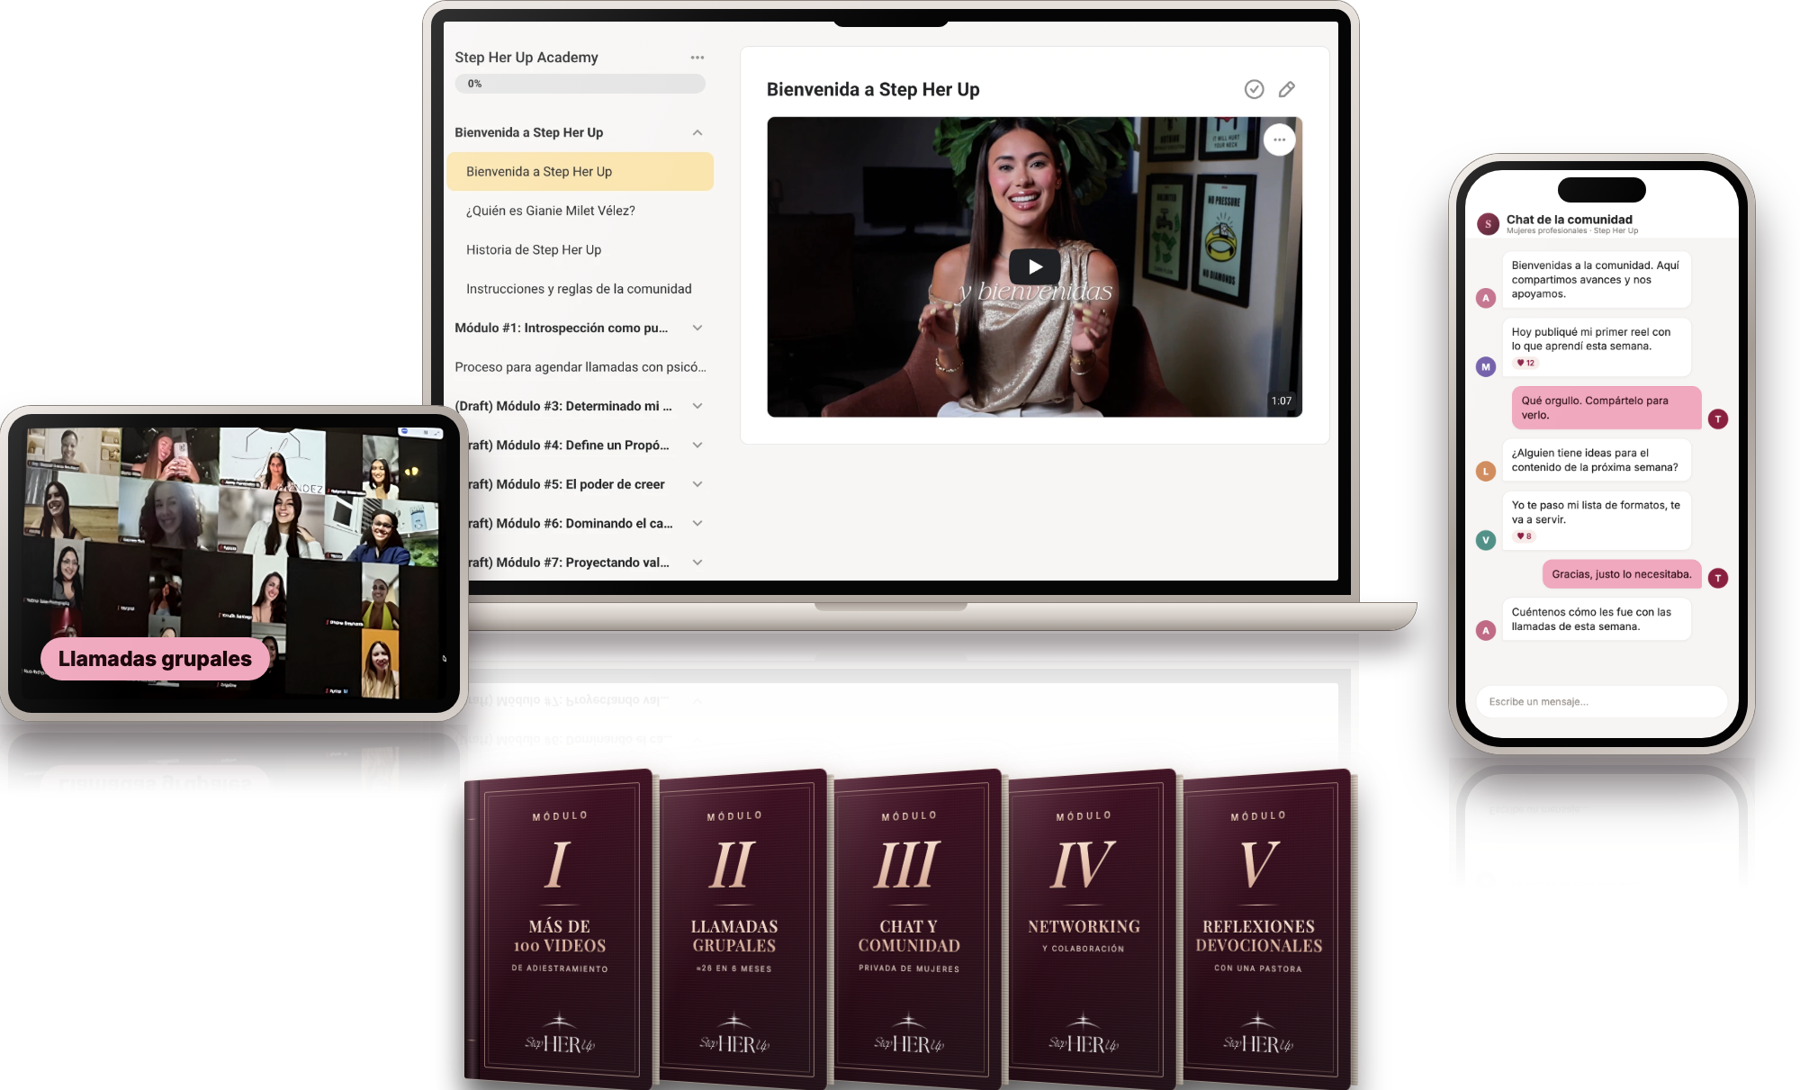
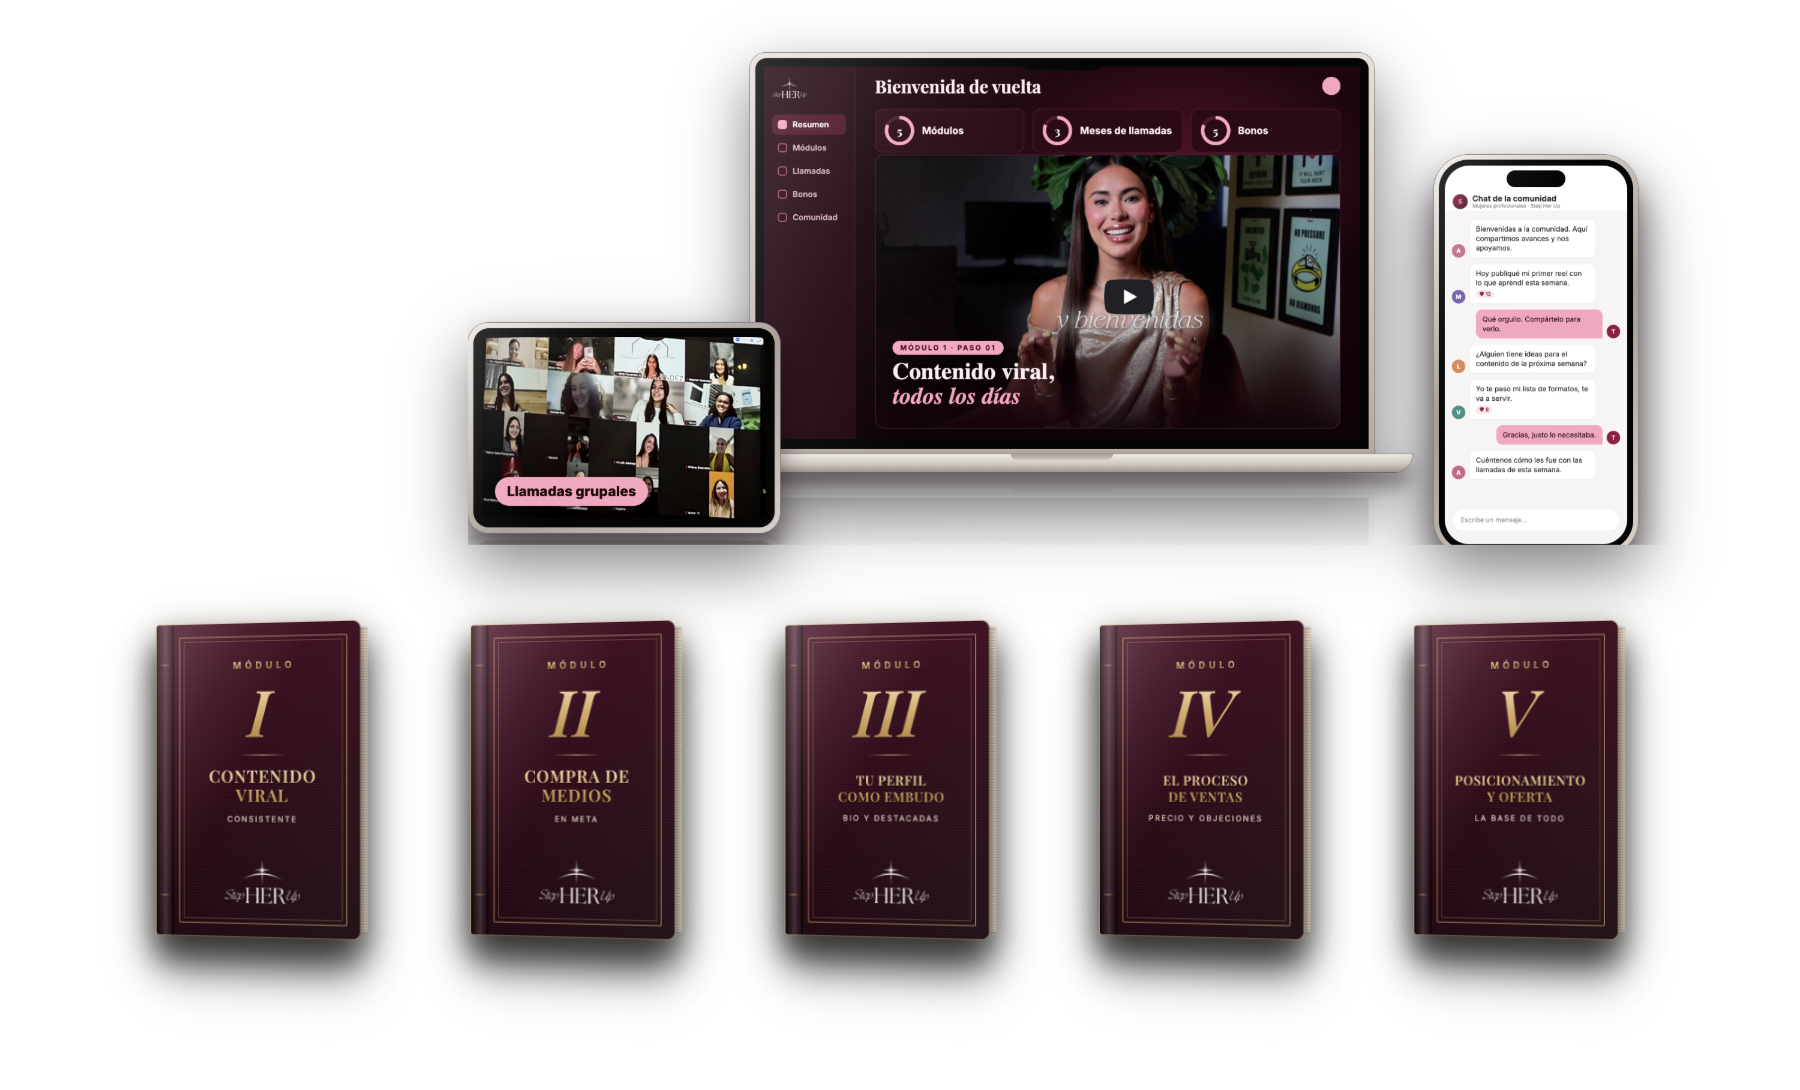
Oferta: alineada con el Canva (5 módulos, 3 meses de llamadas, 5 bonos, valor total $6,288) e imagen nueva con el panel en la computadora

diff --git a/oferta/index.html b/oferta/index.html
@@ -7,7 +7,7 @@
 <meta name="viewport" content="width=device-width, initial-scale=1.0">
 <meta name="robots" content="noindex, nofollow">
 <title>Sistema de crecimiento en Skool | Step Her Up</title>
-<meta name="description" content="Más de 100 videos, llamadas grupales con Gianie, comunidad y devocionales para posicionarte, crecer en redes y aumentar tus ventas.">
+<meta name="description" content="5 módulos, llamadas grupales con Gianie por 3 meses y 5 bonos para posicionarte, crecer en redes y aumentar tus ventas.">
 <link rel="canonical" href="https://shu.stepherup.com/oferta/">
 <meta property="og:title" content="Sistema de crecimiento en Skool | Step Her Up">
 <meta property="og:description" content="El sistema para posicionarte, crecer en redes y aumentar tus ventas.">
@@ -150,7 +150,7 @@ fbq('track', 'PageView');
   <section class="hero"><div class="wrap">
     <p class="eyebrow">Acceso exclusivo</p>
     <h1>El sistema para posicionarte, crecer en redes y <em>aumentar tus ventas.</em></h1>
-    <p class="lede">Sistema de crecimiento en Skool: más de 100 videos, llamadas grupales con Gianie y una comunidad de mujeres profesionales.</p>
+    <p class="lede">Sistema de crecimiento en Skool: 5 módulos, llamadas grupales con Gianie por 3 meses y 5 bonos.</p>
     <div id="contador" class="count" aria-live="polite">
       <div><b id="cd-d">0</b><span>días</span></div><div><b id="cd-h">00</b><span>horas</span></div><div><b id="cd-m">00</b><span>min</span></div><div><b id="cd-s">00</b><span>seg</span></div>
     </div>
@@ -160,37 +160,35 @@ fbq('track', 'PageView');
   <section class="block alt"><div class="wrap center">
     <p class="eyebrow">Esto es todo lo que recibirás</p>
     <h2>Cuando te unes <em>hoy</em></h2>
-    <div class="stage"><img class="mock" src="https://shu.stepherup.com/assets/oferta-producto-3.png" alt="Sistema de crecimiento en Skool: módulos y plataforma en computadora, tablet y celular" loading="lazy"></div>
+    <div class="stage"><img class="mock" src="https://shu.stepherup.com/assets/oferta-producto-3.png?v=2" alt="Sistema de crecimiento en Skool: panel, llamadas grupales, chat de la comunidad y los 5 módulos" loading="lazy"></div>
 
     <div class="ledger">
-      <div class="row"><h3>Más de 100 videos de adiestramiento en Skool</h3><span class="val">$1,497</span><p>Posicionamiento, contenido, grabación y edición, Meta Business y ventas.</p></div>
-      <div class="row"><h3>≈26 llamadas grupales semanales con Gianie</h3><span class="val">$1,297</span><p>Durante seis meses, para llevar tus preguntas y recibir orientación mientras implementas.</p></div>
-      <div class="row"><h3>Chat y comunidad privada de mujeres profesionales</h3><span class="val">$297</span><p>Comparte avances, conversa tus retos e intercambia experiencias.</p></div>
-      <div class="row"><h3>Networking y oportunidades de colaboración</h3><span class="val">$247</span><p>Conoce a mujeres con distintos servicios y explora alianzas.</p></div>
-      <div class="row"><h3>Reflexiones devocionales guiadas por una pastora</h3><span class="val">$159</span><p>Un espacio para nutrir tu fe mientras construyes tu marca.</p></div>
-      <div class="total"><span>Valor total estimado</span><s>$3,497</s></div>
+      <div class="row"><h3>5 módulos + llamadas grupales con Gianie por 3 meses</h3><span class="val">$3,997</span><p>Contenido viral, compra de medios en Meta, tu perfil como embudo, el proceso de ventas, y posicionamiento y oferta, con llamadas grupales con Gianie durante tres meses.</p></div>
+      <div class="row"><h3>Bono 1 · Consulta 1-on-1 con mi equipo</h3><span class="val">$1,000</span><p>Una llamada privada con alguien de mi equipo donde identificamos exactamente qué está fallando en tu marca. Solo esta noche.</p></div>
+      <div class="row"><h3>Bono 2 · Sesión 1-on-1 con nuestra psicóloga</h3><span class="val">$100</span><p>La psicóloga de la comunidad te ayuda a disminuir tus miedos e inseguridades, y a hacer una planificación estratégica para dejar a un lado el “no tengo tiempo”.</p></div>
+      <div class="row"><h3>Bono 3 · Scripts de venta</h3><span class="val">$497</span><p>Un script de venta por texto y uno por llamada: un borrador para que lo adaptes a tu nicho.</p></div>
+      <div class="row"><h3>Bono 4 · Devocionales semanales</h3><span class="val">$297</span><p>Cada semana, un devocional para que crezcas tu negocio sin dejar a un lado lo que te sostiene.</p></div>
+      <div class="row"><h3>Bono 5 · Lista de hooks probados</h3><span class="val">$397</span><p>Una lista de hooks que ya funcionan para empezar tus videos.</p></div>
+      <div class="total"><span>Valor total estimado</span><s>$6,288</s></div>
     </div>
 
     <div class="oferta">
       <p class="lbl">Oferta exclusiva</p>
       <div class="pr">$997<small>pago único</small></div>
-      <p class="was">En lugar de <s>$3,497</s></p>
+      <p class="was">En lugar de <s>$6,288</s></p>
       <a class="btn pay" href="#">Asegurar mi lugar</a>
     </div>
   </div></section>
 
   <section class="block"><div class="wrap center">
     <p class="eyebrow">Lo que aprenderás</p>
-    <h2>Ocho módulos para convertir tu conocimiento en una marca que vende</h2>
+    <h2>Cinco módulos para convertir tu conocimiento en una marca que vende</h2>
     <div class="mods">
-      <div class="mod"><b>01</b><h3>Posicionamiento y perfil</h3><p>Haz que se entienda quién eres, a quién ayudas y por qué elegirte.</p></div>
-      <div class="mod"><b>02</b><h3>Contenido con potencial de viralizarse</h3><p>Crea contenido que capte atención y conecte con las personas correctas.</p></div>
-      <div class="mod"><b>03</b><h3>Grabación y edición de contenido</h3><p>Transforma tus ideas en piezas que puedas producir y publicar.</p></div>
-      <div class="mod"><b>04</b><h3>Meta Business y compra de medios</h3><p>Usa las herramientas de Meta para promover tu oferta con intención.</p></div>
-      <div class="mod"><b>05</b><h3>Anuncios que comuniquen tu oferta</h3><p>Construye mensajes que expliquen por qué tu producto o servicio es relevante.</p></div>
-      <div class="mod"><b>06</b><h3>Oferta, valor y proceso de ventas</h3><p>Presenta tu servicio por sus beneficios y sostén tu precio con una propuesta clara.</p></div>
-      <div class="mod"><b>07</b><h3>Confianza para mostrarte y vender</h3><p>Trabaja el miedo que te frena al hablar, publicar o presentar tu oferta.</p></div>
-      <div class="mod"><b>08</b><h3>Organización y constancia</h3><p>Haz espacio para tu marca sin depender de la inspiración.</p></div>
+      <div class="mod"><b>01</b><h3>Contenido viral, consistente</h3><p>Frameworks para conectar, llamar la atención y entregar valor, guiones de 40 segundos y formatos de contenido viralizable.</p></div>
+      <div class="mod"><b>02</b><h3>Compra de medios en Meta</h3><p>Configurar tu cuenta de Meta Business, escoger el objetivo y tu público, saber cuánto invertir y leer los resultados.</p></div>
+      <div class="mod"><b>03</b><h3>Tu perfil como embudo</h3><p>Bio, foto, nombre, destacadas y publicaciones pineadas, y el camino de quien te descubre hasta tu DM.</p></div>
+      <div class="mod"><b>04</b><h3>El proceso de ventas</h3><p>Cómo dar el precio, llevar conversaciones por DM y llamadas, manejar objeciones y dar seguimiento.</p></div>
+      <div class="mod"><b>05</b><h3>Posicionamiento y oferta</h3><p>Tu clienta ideal, tu diferenciador, cómo ponerle precio a tu trabajo, y ofertas high ticket y membresías.</p></div>
     </div>
   </div></section>
 
@@ -198,11 +196,10 @@ fbq('track', 'PageView');
     <p class="eyebrow">Acompañamiento, comunidad y fe</p>
     <h2>Aprende con el sistema. <em>Avanza con Gianie.</em></h2>
     <div class="three">
-      <div class="col"><span class="k">≈26 llamadas · 6 meses</span><h3>Acceso a Gianie</h3><p>Llamadas grupales semanales para aclarar dudas sobre tu contenido, tu oferta, tus anuncios y tu proceso de ventas.</p></div>
+      <div class="col"><span class="k">Llamadas grupales · 3 meses</span><h3>Acceso a Gianie</h3><p>Llamadas grupales semanales para aclarar dudas sobre tu contenido, tu oferta, tus anuncios y tu proceso de ventas.</p></div>
       <div class="col"><span class="k">Comunidad</span><h3>Mujeres que construyen</h3><p>Un chat privado para compartir, hacer contactos y desarrollar relaciones profesionales con intención.</p></div>
       <div class="col"><span class="k">Fe y propósito</span><h3>Devocionales</h3><p>Reflexiones guiadas por una pastora para mantener a Dios presente en tu proceso de crecimiento.</p></div>
     </div>
-    <p class="note">6 meses por aproximadamente 4.33 semanas son unas 26 llamadas. El total exacto depende del calendario.</p>
   </div></section>
 
   <section class="block"><div class="wrap center">
@@ -227,7 +224,7 @@ fbq('track', 'PageView');
     <div class="oferta">
       <p class="lbl">Oferta exclusiva</p>
       <div class="pr">$997<small>pago único</small></div>
-      <p class="was">En lugar de <s>$3,497</s></p>
+      <p class="was">En lugar de <s>$6,288</s></p>
       <a class="btn pay" href="#">Asegurar mi lugar</a>
     </div>
   </div></section>
@@ -250,7 +247,7 @@ fbq('track', 'PageView');
   <section class="final"><div class="wrap center">
     <div class="orn"><span>✦</span></div>
     <h2 style="margin:34px auto 12px">Da el paso <em>hoy</em></h2>
-    <p class="sub" style="margin-bottom:36px">Oferta exclusiva de <b style="color:var(--cream);font-weight:600">$997</b> en pago único, en lugar de <s>$3,497</s>.</p>
+    <p class="sub" style="margin-bottom:36px">Oferta exclusiva de <b style="color:var(--cream);font-weight:600">$997</b> en pago único, en lugar de <s>$6,288</s>.</p>
     <a class="btn pay" href="#">Asegurar mi lugar</a>
   </div></section>
 </main>
